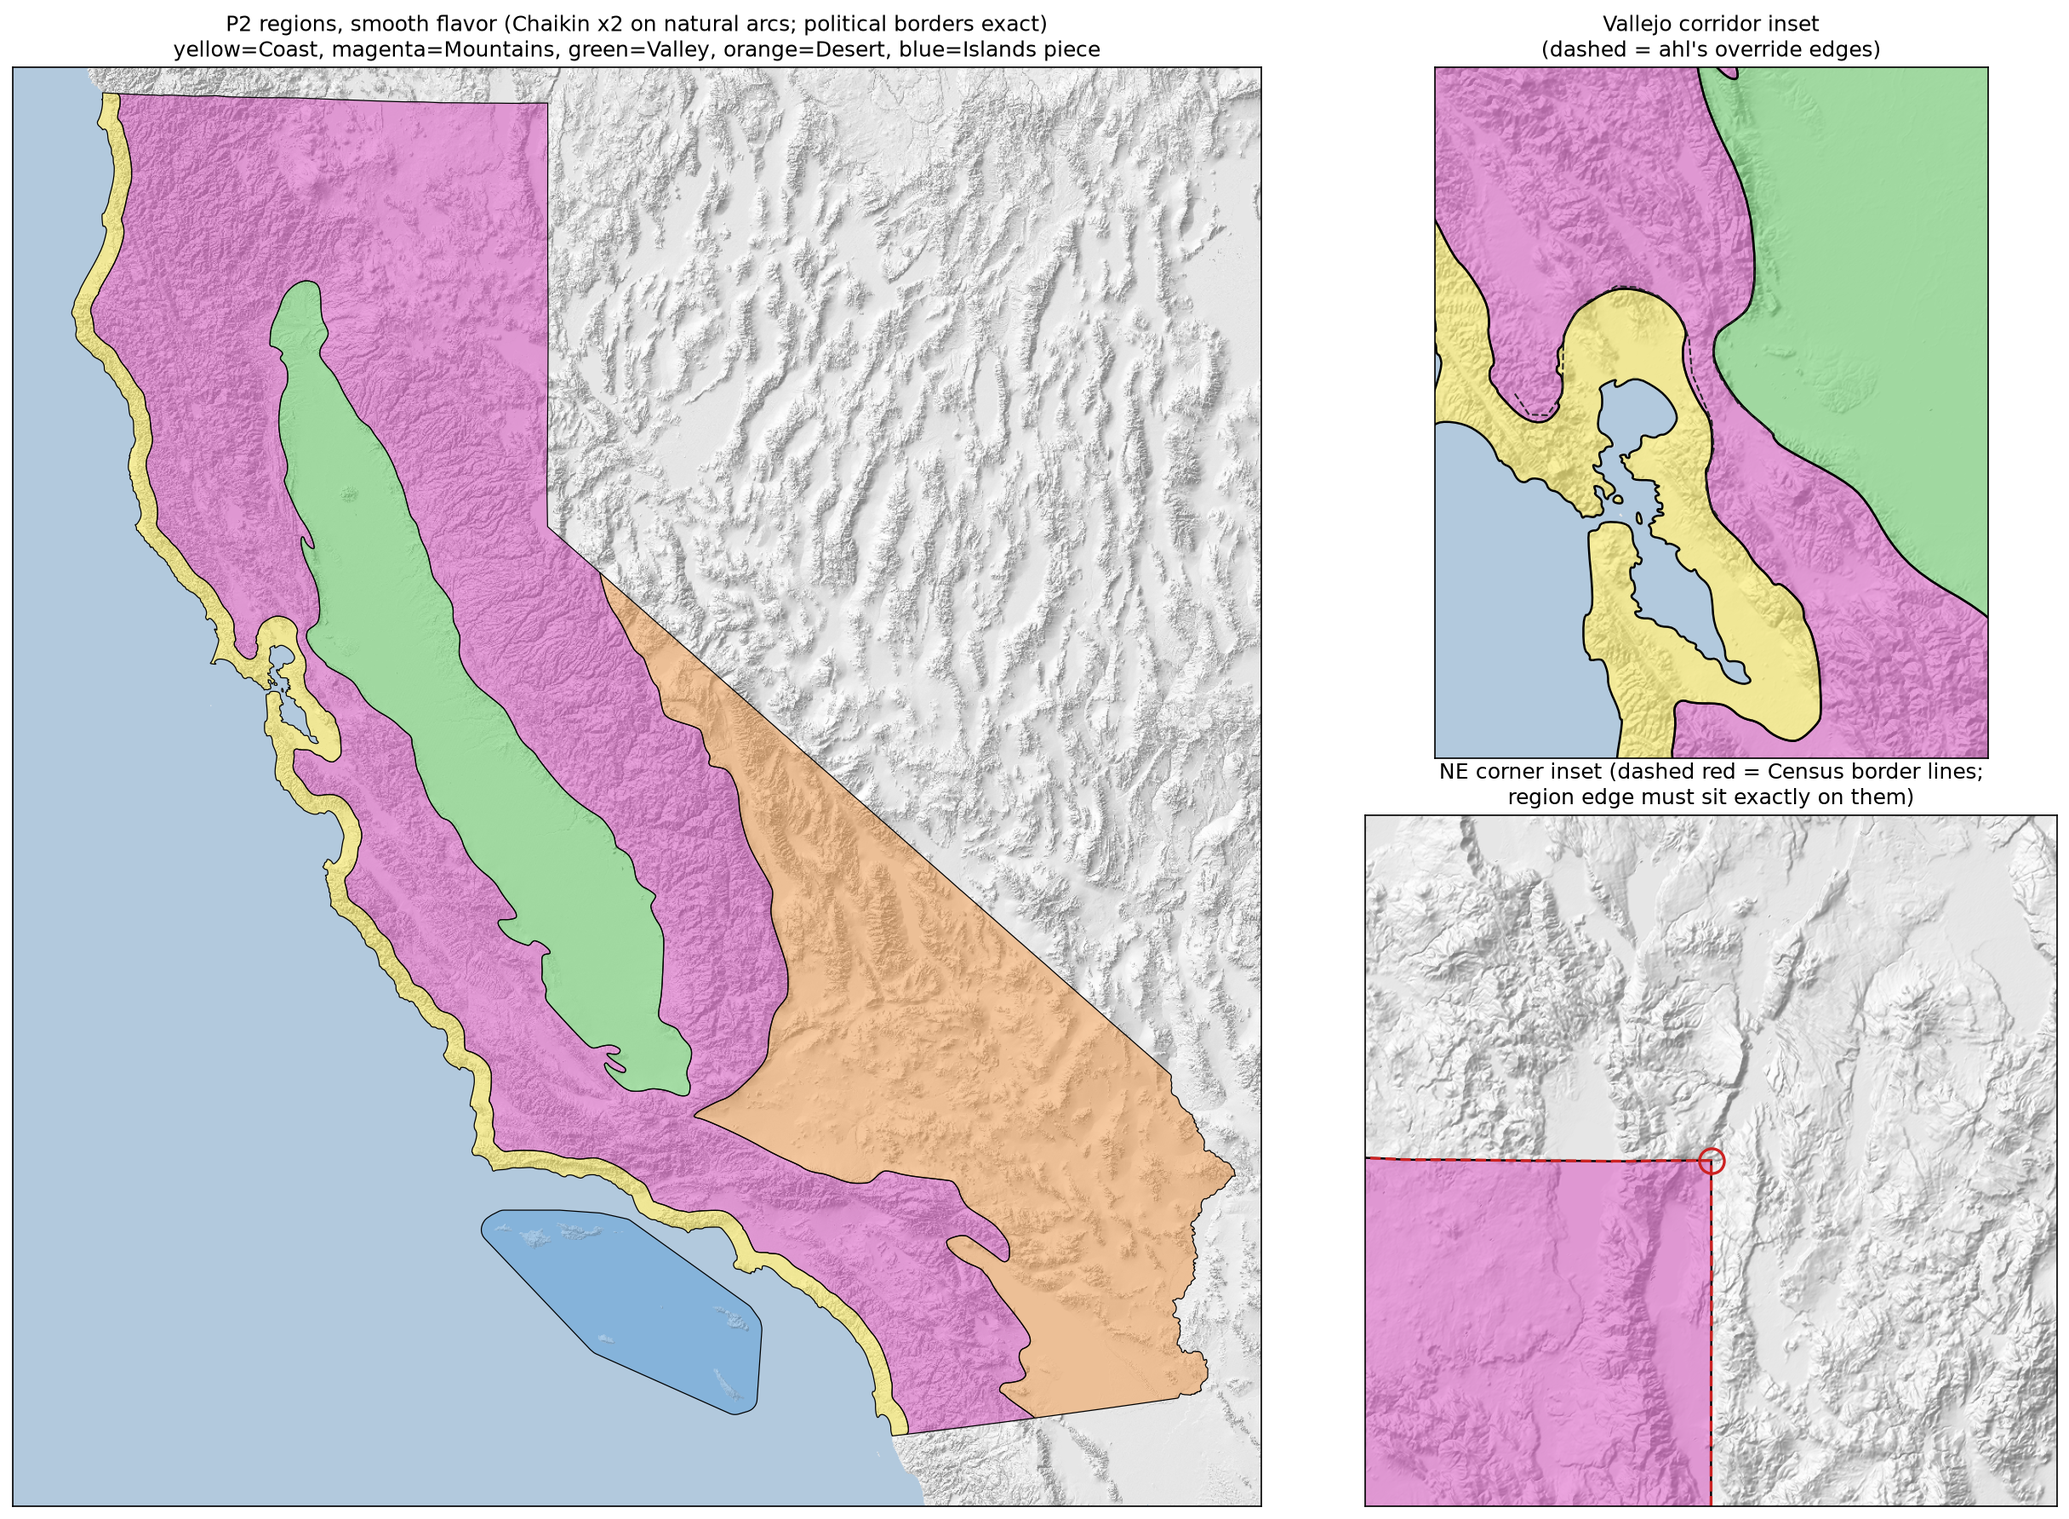
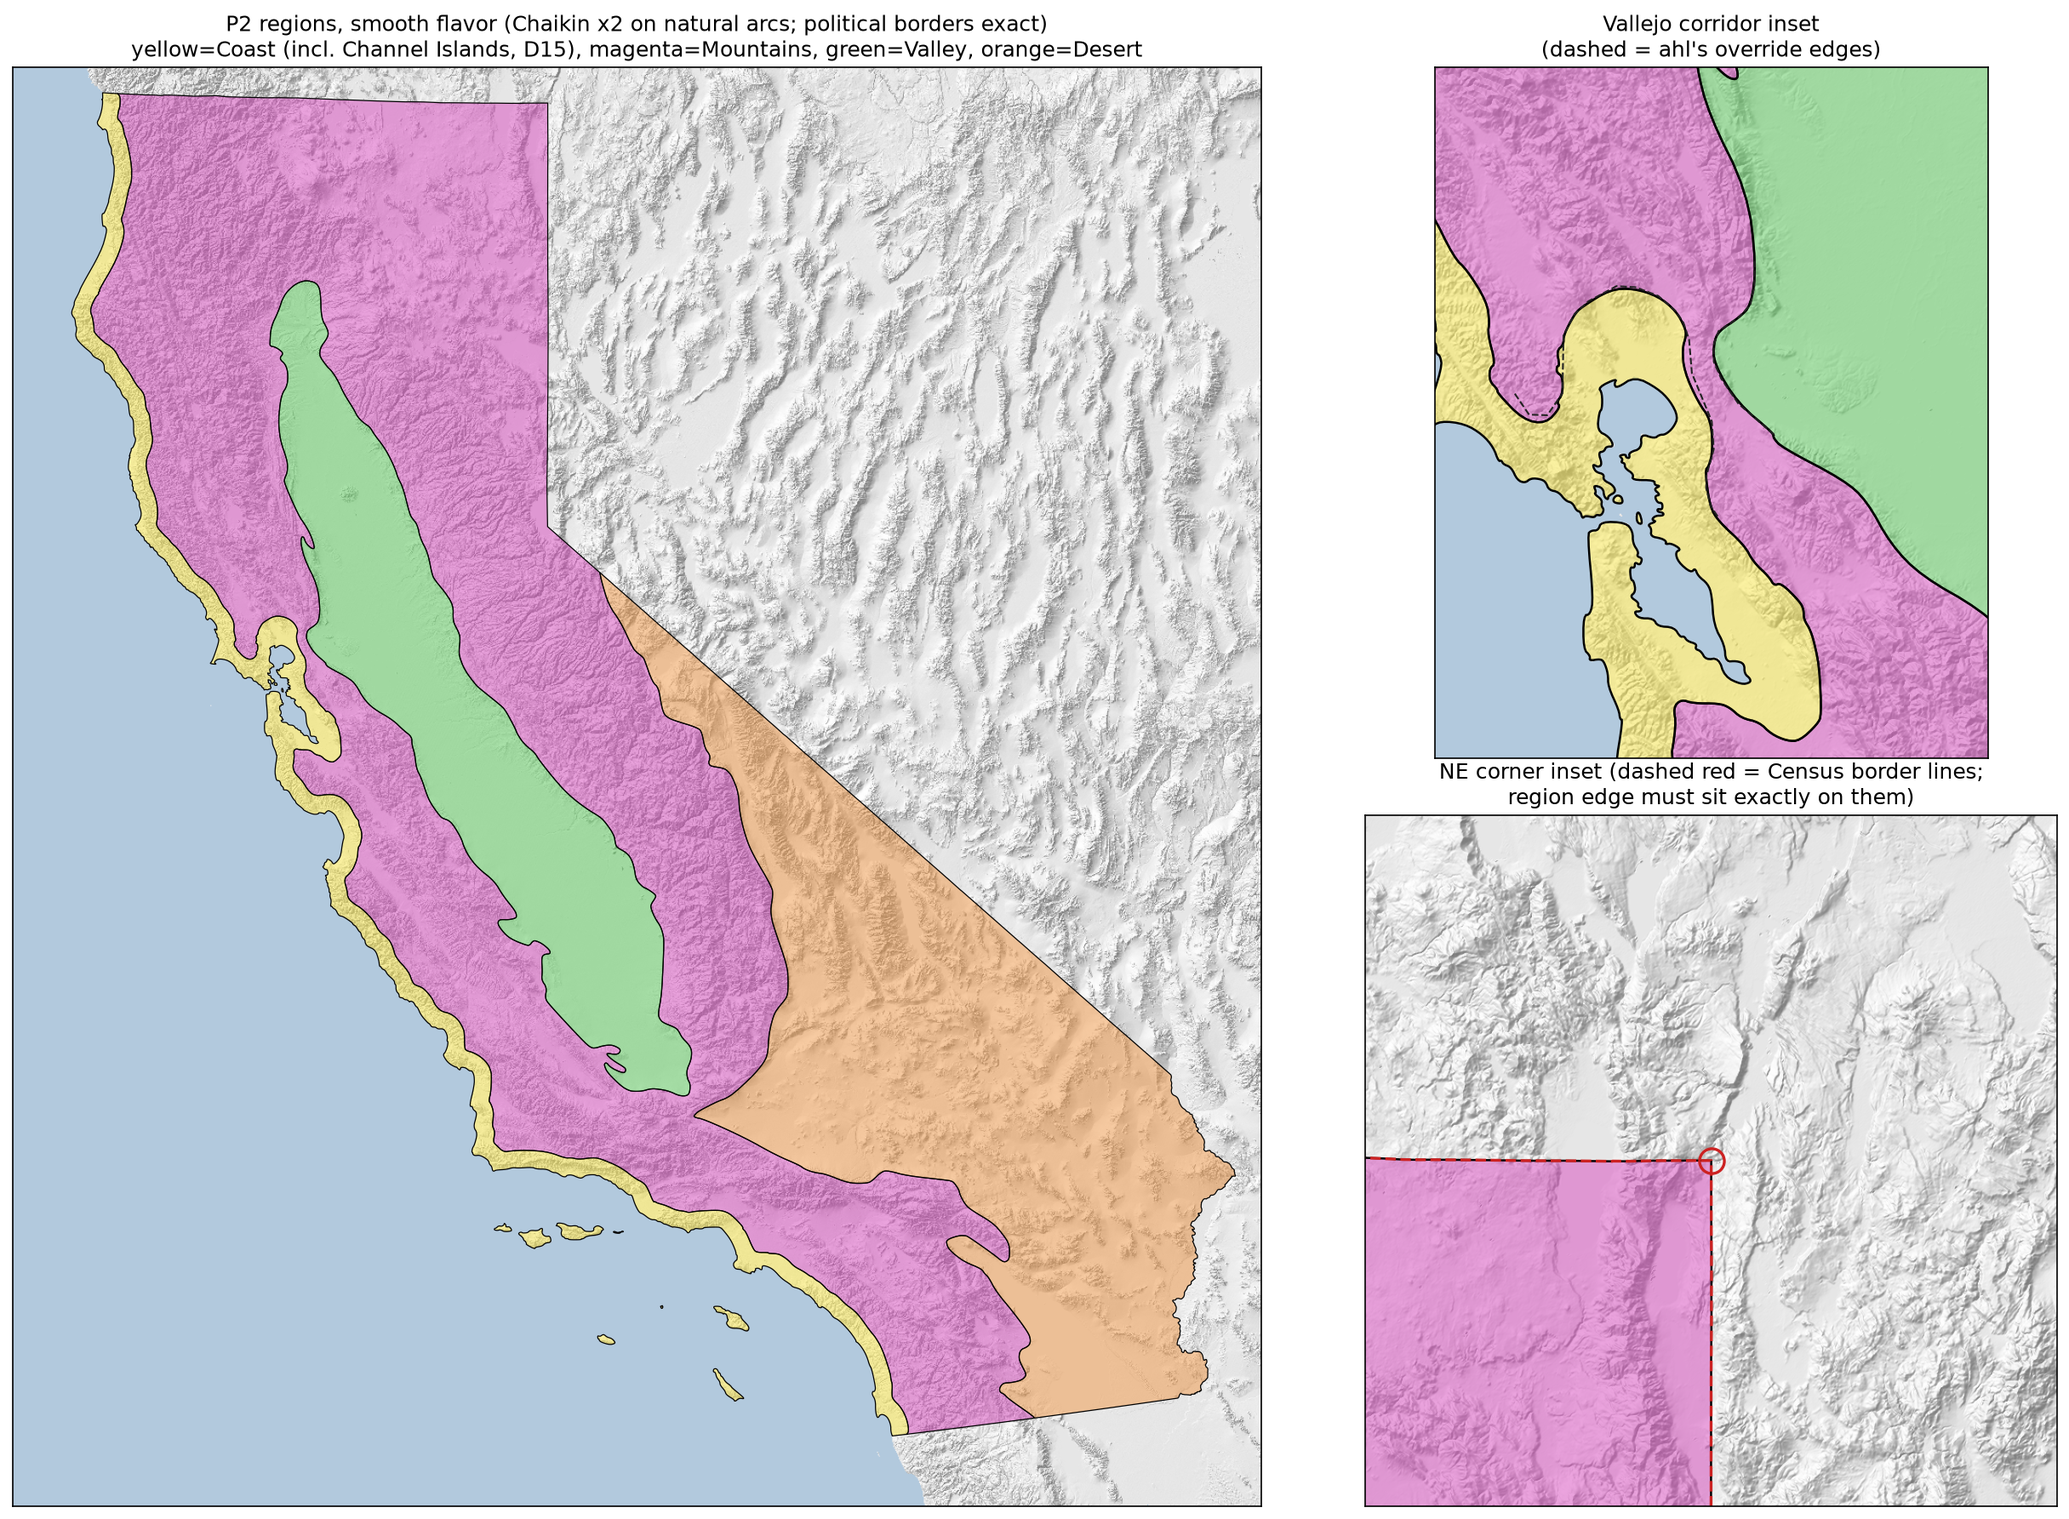
Full chain converged at 250mm/D15: vectorizer in_surround, layout 225x250, slabs rebuilt; make idempotent-clean
Claude-Session: https://claude.ai/code/session_01UmyBij4BnZ6xjWXXCv2QxT

Changed region(s): [[0.216, 0.7703, 0.3702, 0.9552], [0.0617, 0.0308, 0.5245, 0.0616]]

diff --git a/pipeline/p2_vectorize.py b/pipeline/p2_vectorize.py
@@ -22,10 +22,12 @@ Steps:
      p2_land.py): new land inside CA joins the nearest region; land
      outside CA is frame territory; polygon sea is sea. No-exclave rule +
      sub-printable speck drop (P2 cleanup contract; Farallones stay out).
-  3. Pull the eight Channel Islands out of Coast: they form their own
-     puzzle piece (config [islands] one_piece_hull) whose outline is the
-     convex hull of all island land buffered by buffer_km of ocean.
-     Harbor/bay islets (Terminal Island etc.) stay with mainland Coast.
+  3. Channel Islands per config [islands].mode: "in_surround" (D15,
+     current) keeps them classified as COAST land — the coast feature is
+     a MultiPolygon including the eight island rings, printed yellow on
+     the surround; "one_piece_hull" (retired, kept for history) pulls
+     them out into their own hull+buffer piece feature. The Farallones
+     are dropped either way; harbor/bay islets stay with mainland Coast.
   4. Extract the mainland boundary as a topological arc-node graph on
      pixel corners: every border polyline is stored ONCE and shared by
      the regions on both sides, so adjacent polygons reference
@@ -146,11 +148,13 @@ def build_final_raster():
     return R, dem, sea, mainland
 
 
-def extract_channel_islands(R, mainland):
-    """Remove the eight Channel Islands from the region raster (they are
-    their own piece now, D2 revised) and return their land mask. Other
-    off-mainland components (Terminal Island, bay islets) stay with their
-    region — folded into the mainland Coast feature."""
+def extract_channel_islands(R, mainland, remove):
+    """Identify the eight Channel Islands in the region raster and drop
+    the Farallones (not on any piece, per ahl). remove=True (retired
+    one_piece_hull mode) zeroes the islands out of the raster for their
+    own piece; remove=False (D15 in_surround) leaves them as COAST land
+    and only matches/reports. Other off-mainland components (bay islets)
+    always stay with their region. Returns the islands' land mask."""
     to_ll = base.Transformer.from_crs(META["crs"], "EPSG:4326",
                                       always_xy=True)
     targets = {}
@@ -179,8 +183,11 @@ def extract_channel_islands(R, mainland):
             print(f"  {comp.sum() * KM2:7.1f} km^2 at ({lat:.2f}N, "
                   f"{abs(lon):.2f}W) -> DROPPED (Farallones, per ahl)")
             continue
-        who = f"islands piece ({hit})" if hit else \
-            f"stays {REGION_NAMES[int(np.bincount(R[comp]).argmax())]}"
+        if hit:
+            who = (f"islands piece ({hit})" if remove
+                   else f"coast land (Channel Island: {hit})")
+        else:
+            who = f"stays {REGION_NAMES[int(np.bincount(R[comp]).argmax())]}"
         print(f"  {comp.sum() * KM2:7.1f} km^2 at ({lat:.2f}N, "
               f"{abs(lon):.2f}W) -> {who}")
         if hit:
@@ -189,8 +196,9 @@ def extract_channel_islands(R, mainland):
     missing = set(CHANNEL_ISLANDS) - matched
     if missing:
         raise RuntimeError(f"Channel Islands not found in raster: {missing}")
-    R[isl] = 0
-    print(f"  islands piece land: {isl.sum() * KM2:.1f} km^2 "
+    if remove:
+        R[isl] = 0
+    print(f"  Channel Islands land: {isl.sum() * KM2:.1f} km^2 "
           f"({len(matched)}/8 islands matched)")
     return isl
 
@@ -620,17 +628,68 @@ def assemble(lines, R, flavor):
     return regions
 
 
+def verify_islands(regions, islands_mp, isl_mask):
+    """Mode-dependent island checks. one_piece_hull: the hull piece must
+    overlap no mainland region. in_surround (D15): every Channel Island
+    component must lie inside the COAST feature, and the coast's island
+    parts must touch no other region."""
+    coast = regions[base.COAST]
+    if islands_mp is not None:
+        for rid, g in regions.items():
+            olap = g.intersection(islands_mp).area
+            if olap:
+                raise RuntimeError(f"islands piece overlaps "
+                                   f"{REGION_NAMES[rid]} by {olap:.1f} m^2")
+        print(f"  islands piece: overlaps NO mainland region; "
+              f"min gap to coast piece {coast.distance(islands_mp) / 1000:.1f}"
+              f" km")
+        return
+    lab, n = ndimage.label(isl_mask)
+    slices = ndimage.find_objects(lab)
+    inside = 0
+    for i in range(1, n + 1):  # deepest-interior cell of each island
+        sl = slices[i - 1]
+        comp = lab[sl] == i
+        d = ndimage.distance_transform_edt(comp)
+        rr, cc = np.unravel_index(int(d.argmax()), d.shape)
+        x = X0 + (sl[1].start + cc + 0.5) * RES
+        y = Y1 - (sl[0].start + rr + 0.5) * RES
+        if bool(shapely.contains_xy(coast, x, y)):
+            inside += 1
+    parts = sorted(coast.geoms, key=lambda p: -p.area)
+    ch, other_isl = 0, 0
+    for p in parts[1:]:
+        q = p.representative_point()
+        r, c = int((Y1 - q.y) / RES), int((q.x - X0) / RES)
+        if 0 <= r < isl_mask.shape[0] and 0 <= c < isl_mask.shape[1] \
+                and isl_mask[r, c]:
+            ch += 1
+        else:
+            other_isl += 1
+    others = shapely.union_all([g for rid, g in regions.items()
+                                if rid != base.COAST])
+    dmin = min((p.distance(others) for p in parts[1:]), default=np.inf)
+    status = "OK" if inside == n and dmin > 0 else "CHECK"
+    print(f"  islands-in-coast (D15): {inside}/{n} island components "
+          f"inside the coast feature; coast = 1 mainland + {ch} Channel "
+          f"Island + {other_isl} bay-islet part(s); island parts' min "
+          f"distance to other regions {dmin / 1000:.1f} km -> {status}")
+    if status != "OK":
+        raise RuntimeError("D15 islands-in-coast verification failed")
+
+
 def write_geojson(path, regions, islands_mp):
     feats = [{"type": "Feature",
               "properties": {"region": REGION_NAMES[rid], "region_id": rid},
               "geometry": mapping(regions[rid])}
              for rid in sorted(regions)]
-    feats.append({"type": "Feature",
-                  "properties": {"region": "islands",
-                                 "region_id": ISLANDS_ID,
-                                 "kind": "piece_outline_hull_buffer",
-                                 "buffer_km": ISL_CFG["buffer_km"]},
-                  "geometry": mapping(islands_mp)})
+    if islands_mp is not None:
+        feats.append({"type": "Feature",
+                      "properties": {"region": "islands",
+                                     "region_id": ISLANDS_ID,
+                                     "kind": "piece_outline_hull_buffer",
+                                     "buffer_km": ISL_CFG["buffer_km"]},
+                      "geometry": mapping(islands_mp)})
     gj = {"type": "FeatureCollection",
           "crs": {"type": "name",
                   "properties": {"name": "urn:ogc:def:crs:EPSG::3310"}},
@@ -651,7 +710,11 @@ def main():
             prev_areas[f["properties"]["region"]] = g.area / 1e6
 
     R, dem, sea, mainland = build_final_raster()
-    isl_mask = extract_channel_islands(R, mainland)
+    mode = ISL_CFG["mode"]
+    if mode not in ("in_surround", "one_piece_hull"):
+        raise RuntimeError(f"unknown [islands] mode {mode!r}")
+    hull_mode = mode == "one_piece_hull"
+    isl_mask = extract_channel_islands(R, mainland, remove=hull_mode)
     print(f"region raster sha256: "
           f"{hashlib.sha256(R.tobytes()).hexdigest()[:16]}")
     for rid, nm in REGION_NAMES.items():
@@ -660,10 +723,15 @@ def main():
             if nm in prev_areas else ""
         print(f"  final {nm:9s}: {a:9.1f} km^2{d}")
 
-    islands_mp = islands_piece_polygon(isl_mask)
-    print(f"islands piece: hull+{ISL_CFG['buffer_km']:g} km buffer, "
-          f"{islands_mp.area / 1e6:,.0f} km^2, "
-          f"{len(islands_mp.geoms[0].exterior.coords)} vertices")
+    if hull_mode:
+        islands_mp = islands_piece_polygon(isl_mask)
+        print(f"islands piece: hull+{ISL_CFG['buffer_km']:g} km buffer, "
+              f"{islands_mp.area / 1e6:,.0f} km^2, "
+              f"{len(islands_mp.geoms[0].exterior.coords)} vertices")
+    else:
+        islands_mp = None
+        print("[islands] mode in_surround (D15): Channel Islands stay "
+              "coast land; no separate islands feature")
 
     print("\nextracting boundary arcs...")
     paths0, cycles0, CW = extract_arcs(R)
@@ -733,16 +801,10 @@ def main():
 
     print()
     regions_dp = assemble(dp_lines, R, "canonical DP")
-    for rid, g in regions_dp.items():  # islands piece may touch nothing
-        olap = g.intersection(islands_mp).area
-        if olap:
-            raise RuntimeError(f"islands piece overlaps {REGION_NAMES[rid]}"
-                               f" by {olap:.1f} m^2")
-    gap = regions_dp[base.COAST].distance(islands_mp)
-    print(f"  islands piece: overlaps NO mainland region; "
-          f"min gap to coast piece {gap / 1000:.1f} km")
+    verify_islands(regions_dp, islands_mp, isl_mask)
     print()
     regions_sm = assemble(sm_lines, R, "smooth preview")
+    verify_islands(regions_sm, islands_mp, isl_mask)
 
     write_geojson(DATA / "p2_regions.geojson", regions_dp, islands_mp)
     write_geojson(DATA / "p2_regions_smooth.geojson", regions_sm, islands_mp)
@@ -786,7 +848,13 @@ def render_qa(dem, sea, regions, islands_mp, border_parts, ne_corner):
                                    edgecolor="black", linewidth=lw))
 
     geoms_cols = [(g, base.COLORS[rid]) for rid, g in regions.items()]
-    geoms_cols.append((islands_mp, ISLANDS_COLOR))
+    if islands_mp is not None:
+        geoms_cols.append((islands_mp, ISLANDS_COLOR))
+        legend = ("yellow=Coast, magenta=Mountains, green=Valley, "
+                  "orange=Desert, blue=Islands piece")
+    else:
+        legend = ("yellow=Coast (incl. Channel Islands, D15), "
+                  "magenta=Mountains, green=Valley, orange=Desert")
 
     fig = plt.figure(figsize=(17, 12), dpi=150)
     gs = fig.add_gridspec(2, 2, width_ratios=[2.05, 1])
@@ -798,9 +866,7 @@ def render_qa(dem, sea, regions, islands_mp, border_parts, ne_corner):
     draw(ax1, geoms_cols, 0.6)
     ax1.set_xlim(-420, 560), ax1.set_ylim(-660, 470)
     ax1.set_title("P2 regions, smooth flavor (Chaikin x2 on natural arcs; "
-                  "political borders exact)\nyellow=Coast, "
-                  "magenta=Mountains, green=Valley, orange=Desert, "
-                  "blue=Islands piece", fontsize=12)
+                  f"political borders exact)\n{legend}", fontsize=12)
 
     backdrop(ax2, -260, -120, -80, 95, 1)
     draw(ax2, geoms_cols, 1.2)

diff --git a/pipeline/p2_layout.py b/pipeline/p2_layout.py
@@ -33,12 +33,13 @@ islands/frame split): FOUR physical pieces tiling the D13 window.
 The D13 window = California's Census bbox (data/p2_land.npz ca_mask)
 padded 40 km on N/E/S and 67.5 km of open Pacific on the W (same padding
 p15_engraved.py uses), scaled so the window's total N-S extent =
-config.toml [output].total_ns_mm (254 mm).
+config.toml [output].total_ns_mm.
 
 The frame's internal land/water coloring (which of its own territory
 is gray vs. yellow vs. water) is derived by rasterizing the exact CA
-region vectors + the islands hull back onto the DEM grid within the
-window, classifying the remainder as land or water from data/p2_land.npz,
+region vectors (the coast feature includes the Channel Islands, D15)
+back onto the DEM grid within the window,
+classifying the remainder as land or water from data/p2_land.npz,
 and re-vectorizing with the same corner-grid arc extraction
 p2_vectorize.py uses for the canonical geometry -- then a light
 Douglas-Peucker simplify for a clean print-quality line at this scale.
@@ -268,23 +269,16 @@ def build_layout():
     # without this, union_all/difference below produce degenerate slivers
     # of near-zero area at the shared-border vertices.
     regions = {k: shapely.set_precision(g, 1.0) for k, g in regions.items()}
-    # p2_vectorize.py's own overlap check (coast vs islands) only runs on
-    # the canonical DP flavor, not this smooth/Chaikin preview flavor;
-    # the smooth coast polygon has a ~0.013 km^2 sliver overlap with the
-    # islands hull near the mainland (found while building this figure --
-    # worth a look upstream, but harmless here: clip it defensively).
-    coast_islands_overlap = regions["coast"].intersection(regions["islands"]).area
-    if coast_islands_overlap > 0:
-        print(f"  note: p2_regions_smooth.geojson coast/islands overlap "
-             f"{coast_islands_overlap / 1e6:.4f} km^2 (smooth-flavor "
-             f"artifact, not present in the canonical DP flavor) -- "
-             f"clipped for this drawing")
-        regions["coast"] = regions["coast"].difference(regions["islands"])
 
     (r0, r1, c0, c1), (x0, x1, y0, y1), ca_rows = ca_window_bbox()
 
+    # D15: island land = the coast feature's off-mainland parts (the
+    # Channel Islands and bay islets are coast MultiPolygon parts now;
+    # there is no separate islands feature).
     shape_full = (META["height"], META["width"])
-    islands_m = rasterize_mp(regions["islands"], shape_full)[r0:r1, c0:c1]
+    coast_parts = sorted(regions["coast"].geoms, key=lambda p: -p.area)
+    islands_mp = shapely.MultiPolygon(coast_parts[1:])
+    islands_m = rasterize_mp(islands_mp, shape_full)[r0:r1, c0:c1]
 
     land_mask = np.load(DATA / "p2_land.npz")["land_mask"][r0:r1, c0:c1]
     # data/p2_land.npz's land_mask is the RAW Census/NE land model; every
@@ -338,11 +332,8 @@ def build_layout():
     if water_all.geom_type == "Polygon":
         water_all = shapely.MultiPolygon([water_all])
 
-    island_land = regions["islands"].difference(water_all)
-    if island_land.geom_type == "Polygon":
-        island_land = shapely.MultiPolygon([island_land])
     frame_gray = frame_piece.difference(water_all) \
-        .difference(regions["coast"]).difference(island_land)
+        .difference(regions["coast"])
     if frame_gray.geom_type == "Polygon":
         frame_gray = shapely.MultiPolygon([frame_gray])
 
@@ -353,8 +344,7 @@ def build_layout():
         "desert": regions["desert"],
         # cosmetic-only fill sub-areas of the frame (not pieces):
         "water_all": water_all,
-        "coast_land": regions["coast"],
-        "island_land": island_land,
+        "coast_land": regions["coast"],  # incl. Channel Islands (D15)
         "frame_gray": frame_gray,
     }
     # pinhole-sized (few m^2) interior rings from the polygonize round trip
@@ -455,7 +445,6 @@ def render(pieces, bbox, ca_rows):
     draw_mp(ax, mm_pieces["water_all"], water_rgb, zorder=1)
     draw_mp(ax, mm_pieces["frame_gray"], COLORS["frame"], zorder=2)
     draw_mp(ax, mm_pieces["coast_land"], COLORS["coast"], zorder=3)
-    draw_mp(ax, mm_pieces["island_land"], COLORS["coast"], zorder=3)
     # the three removable pieces, project palette
     draw_mp(ax, mm_pieces["mountains"], COLORS["mountains"], zorder=4)
     draw_mp(ax, mm_pieces["valley"], COLORS["valley"], zorder=4)
@@ -515,7 +504,7 @@ def render(pieces, bbox, ca_rows):
     ax.set_ylabel("mm")
     ax.set_title(
         "California topo puzzle -- P2 final-product layout proposal\n"
-        f"scale 1:{scale_denom:,.0f}   (254 mm = 10 in)   "
+        f"scale 1:{scale_denom:,.0f}   (N-S {TOTAL_NS_MM:g} mm)   "
         f"footprint {fp_w:.1f} x {fp_h:.1f} mm",
         fontsize=13)
 
